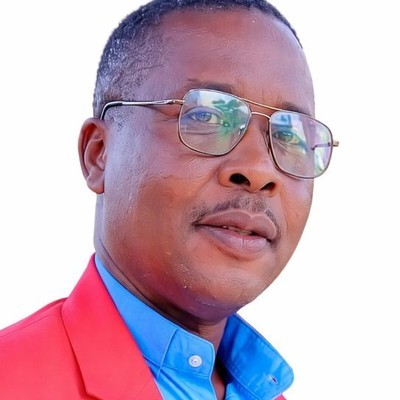
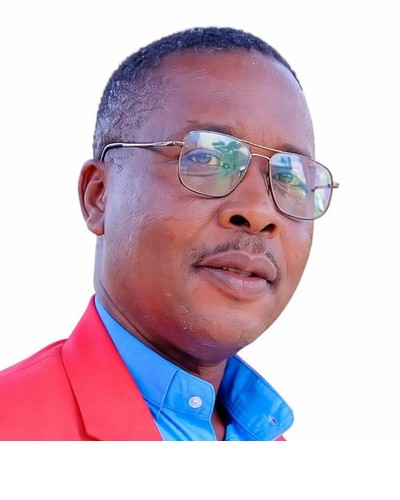
fix: photos membres Bureau National - portrait tête+buste, CSS ajusté

diff --git a/style.css b/style.css
@@ -514,7 +514,7 @@ nav a:hover, nav a.active { background: var(--gold); color: var(--primary); font
   border-top: none; transition: transform var(--transition), box-shadow var(--transition);
 }
 .membre-card:hover { transform: translateY(-6px); box-shadow: var(--shadow-lg); }
-.membre-card img { width: 100%; height: 220px; object-fit: cover; object-position: center 20%; border-radius: 0; border: none; border-bottom: 4px solid var(--gold); margin: 0 0 16px 0; display: block; }
+.membre-card img { width: 100%; height: 280px; object-fit: cover; object-position: center top; border-radius: 0; border: none; border-bottom: 4px solid var(--gold); margin: 0 0 16px 0; display: block; }
 .membre-card h3 { font-size: 0.88rem; color: var(--primary); font-weight: 700; margin-bottom: 4px; font-family: var(--font-title); padding: 0 14px; text-align: center; }
 .membre-card .role { font-size: 0.78rem; color: var(--text-light); padding: 0 14px; text-align: center; }
 
@@ -750,7 +750,7 @@ nav a:hover, nav a.active { background: var(--gold); color: var(--primary); font
   /* Bureau National */
   .membres-grid { grid-template-columns: 1fr 1fr; gap: 12px; }
   .membre-card { padding: 12px 8px; }
-  .membre-card img { height: 180px; object-position: center 20%; }
+  .membre-card img { height: 220px; object-position: center top; }
   .membre-card h3 { font-size: 0.8rem; }
   .membre-card p { font-size: 0.72rem; }
   .president-card { padding: 20px 14px; grid-template-columns: 1fr; text-align: center; }
